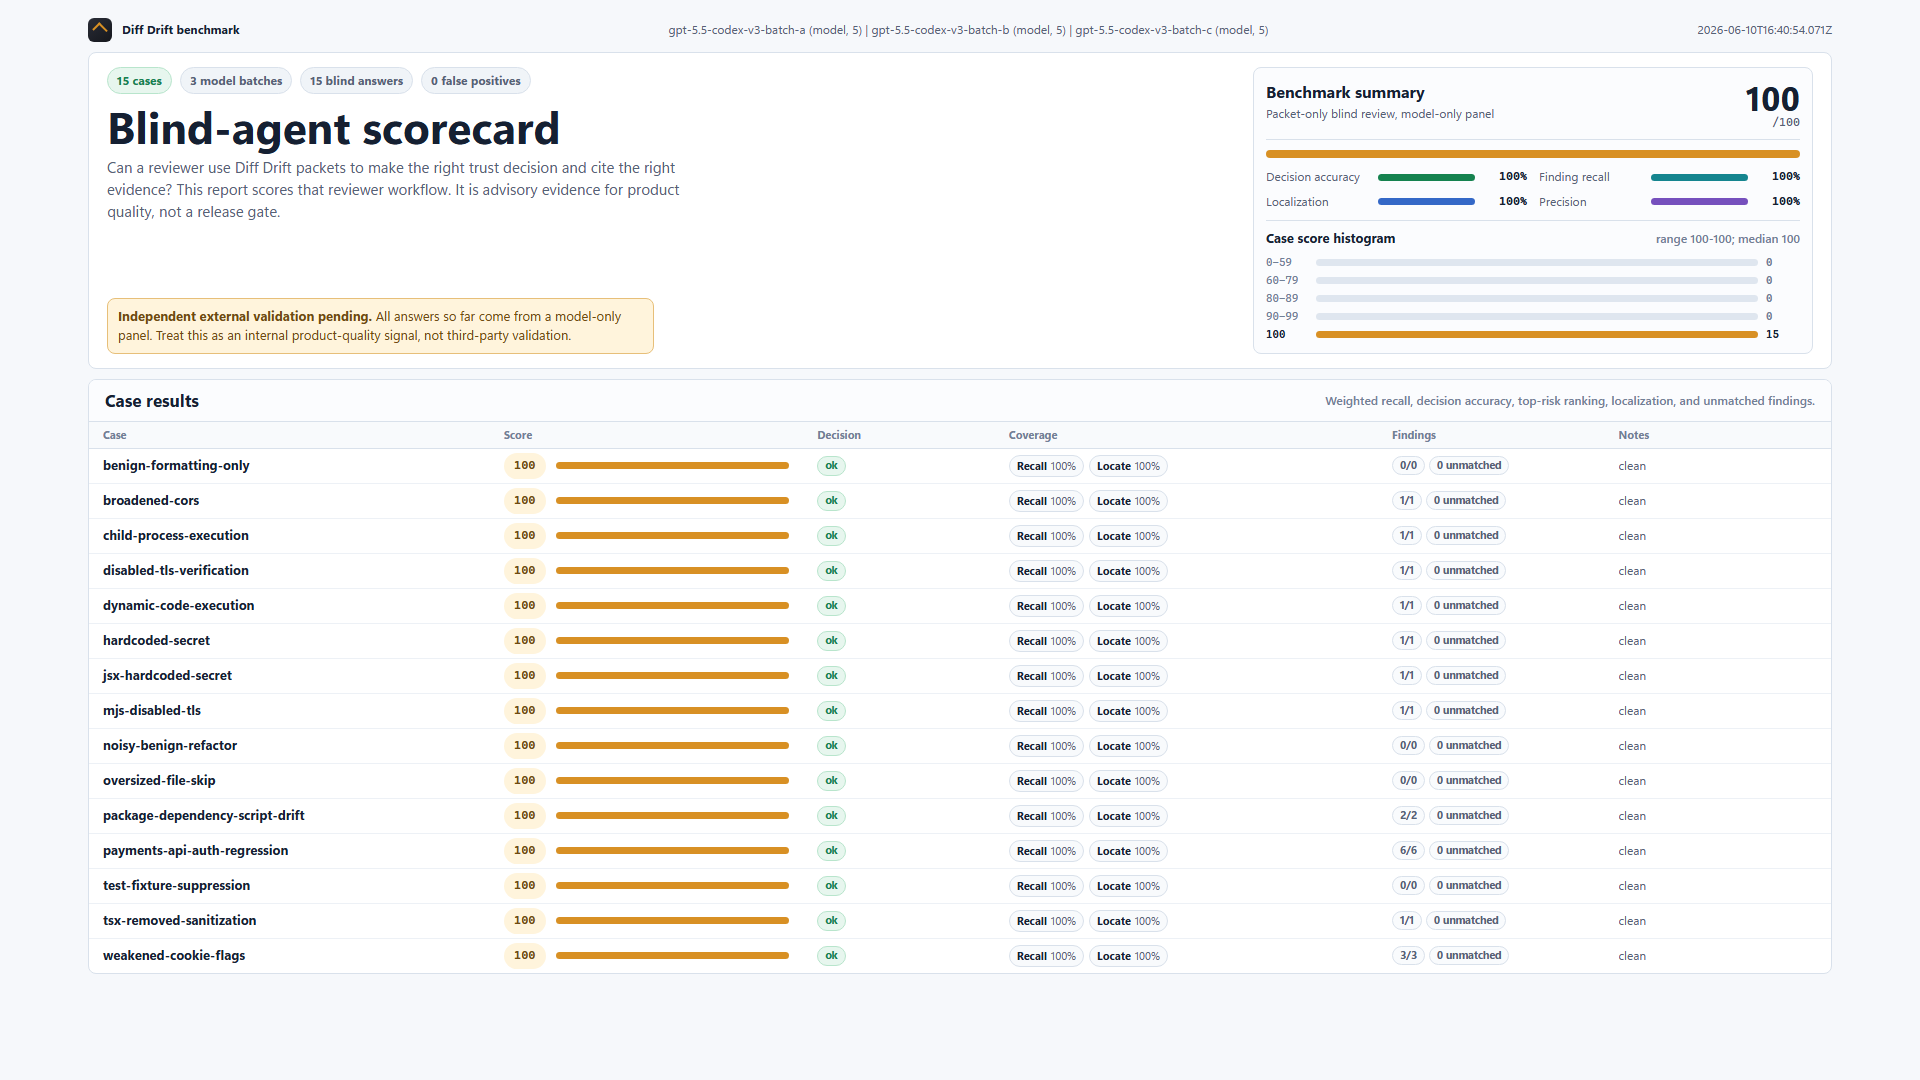
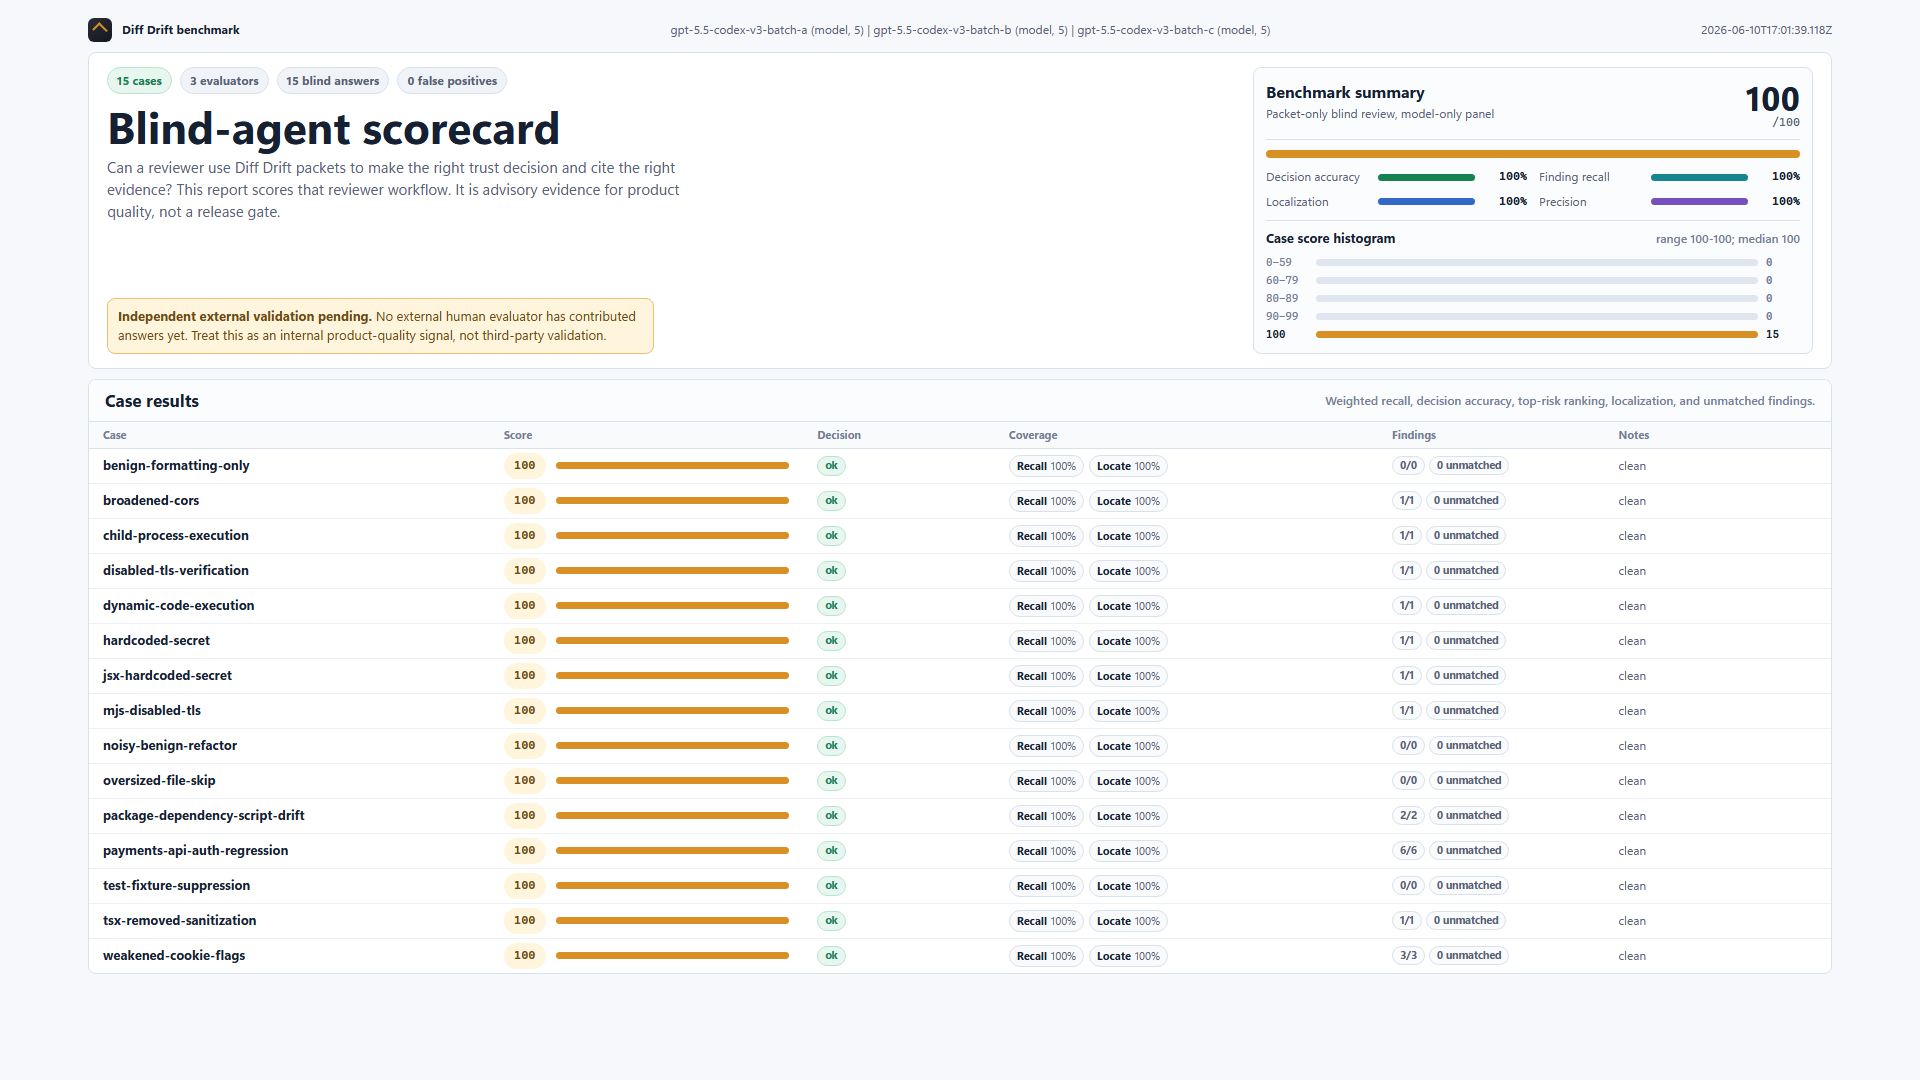
fix: address review scoring and watcher gaps

diff --git a/tests/unit/evalScoring.test.ts b/tests/unit/evalScoring.test.ts
@@ -472,6 +472,33 @@ describe("blind-agent answer scoring", () => {
     expect(summary.totalFalsePositives).toBe(1);
   });
 
+  it("penalizes lower-severity duplicate copies of an already matched finding", () => {
+    const score = scoreAgentAnswer(caseDef, {
+      decision: "block",
+      findings: [
+        {
+          title: "Loose regex pattern disables validation",
+          severity: "high",
+          filePath: "src/auth.ts",
+          riskType: "Loose regex pattern",
+          evidence: "pattern changed to /.*/",
+        },
+        {
+          title: "Loose regex pattern repeated at low severity",
+          severity: "low",
+          filePath: "src/auth.ts",
+          riskType: "Loose regex pattern",
+          evidence: "same pattern changed to /.*/",
+        },
+      ],
+    });
+
+    expect(score.matchedFindings).toBe(1);
+    expect(score.relatedFindings).toEqual([]);
+    expect(score.unmatchedFindings).toEqual(["Loose regex pattern repeated at low severity"]);
+    expect(score.falsePositives).toBe(1);
+  });
+
   it("treats a clean benign run as perfect precision", () => {
     const summary = summarizeAgentScores([
       scoreAgentAnswer(
@@ -548,6 +575,26 @@ describe("blind-agent answer scoring", () => {
     expect(html).toContain("Independent external validation pending");
     expect(html).toContain("Precision");
     expect(html).toContain("claude-fable-5 (model, 10)");
+  });
+
+  it("does not call pending internal-human panels model-only", () => {
+    const result = {
+      generatedAt: "2026-06-10T00:00:00.000Z",
+      averageScore: 100,
+      summary: { decisionAccuracy: 1, averageRecall: 1, averageLocalization: 1 },
+      evaluators: [
+        { id: "model-batch", kind: "model", cases: 5, averageScore: 100 },
+        { id: "maintainer-pass", kind: "human", external: false, cases: 5, averageScore: 100 },
+      ],
+      externalValidationPending: true,
+      scores: [],
+    };
+
+    const md = renderAgentScorecard(result);
+    const html = renderAgentDashboard(result);
+    expect(md).toContain("Human answers are present, but no human evaluator is marked external.");
+    expect(html).toContain("Human answers are present, but no human evaluator is marked external.");
+    expect(html).not.toContain("model-only panel");
   });
 
   it("keeps validation pending until a human evaluator is explicitly external", () => {

diff --git a/eval/benchmarks/v3/scorecard.html b/eval/benchmarks/v3/scorecard.html
@@ -386,21 +386,21 @@
     <div class="topline">
       <div class="brand"><span class="mark"></span><span>Diff Drift benchmark</span></div>
       <div class="run-meta"><span>gpt-5.5-codex-v3-batch-a (model, 5) | gpt-5.5-codex-v3-batch-b (model, 5) | gpt-5.5-codex-v3-batch-c (model, 5)</span></div>
-      <div>2026-06-10T16:40:54.071Z</div>
+      <div>2026-06-10T17:01:39.118Z</div>
     </div>
     <section class="hero">
       <div class="hero-copy">
         <div>
           <div class="label-row">
             <span class="label good">15 cases</span>
-            <span class="label">3 model batches</span>
+            <span class="label">3 evaluators</span>
             <span class="label">15 blind answers</span>
             <span class="label">0 false positives</span>
           </div>
           <h1>Blind-agent scorecard</h1>
           <p class="lede">Can a reviewer use Diff Drift packets to make the right trust decision and cite the right evidence? This report scores that reviewer workflow. It is advisory evidence for product quality, not a release gate.</p>
         </div>
-        <p class="pending"><b>Independent external validation pending.</b> All answers so far come from a model-only panel. Treat this as an internal product-quality signal, not third-party validation.</p>
+        <p class="pending"><b>Independent external validation pending.</b> No external human evaluator has contributed answers yet. Treat this as an internal product-quality signal, not third-party validation.</p>
       </div>
       <aside class="score-panel" aria-label="Benchmark summary">
         <div class="score-head">

diff --git a/src-tauri/src/watcher.rs b/src-tauri/src/watcher.rs
@@ -392,17 +392,21 @@ fn classify_paths_with_git_dirs(
             change.full_scan = true;
             continue;
         }
-        if is_ignored(&p) {
+        if is_always_ignored(&p) || is_temp_file(&p) {
             continue;
         }
         let Some(rel) = relativize(root, &p) else {
             continue;
         };
+        let analyzable = git::is_analyzable(&rel);
+        if is_generated_path(&p) && !analyzable {
+            continue;
+        }
         // package.json drift depends on the lockfile (phantom-dep flags), so a
         // root-level change to either forces a full re-scan.
         if rel == "package.json" || crate::deps_diff::LOCKFILE_NAMES.contains(&rel.as_str()) {
             change.full_scan = true;
-        } else if git::is_analyzable(&rel) {
+        } else if analyzable {
             change.rels.push(rel);
         }
     }
@@ -429,18 +433,21 @@ fn is_git_state_rel(rel: String) -> bool {
         || rel.starts_with("refs/remotes/")
 }
 
-fn is_ignored(p: &Path) -> bool {
-    // skip noisy / generated directories
-    let in_ignored_dir = p.components().any(|c| {
-        matches!(c, Component::Normal(s) if matches!(
-            s.to_string_lossy().as_ref(),
-            ".git" | "node_modules" | "dist" | "build" | "target" | ".next" | "coverage" | "out" | ".turbo"
-        ))
-    });
-    if in_ignored_dir {
-        return true;
-    }
-    // skip editor temp / lock files (atomic-save churn)
+fn is_always_ignored(p: &Path) -> bool {
+    has_component(p, &[".git", "node_modules", ".turbo"])
+}
+
+fn is_generated_path(p: &Path) -> bool {
+    has_component(p, &["dist", "build", "target", ".next", "coverage", "out"])
+}
+
+fn has_component(p: &Path, names: &[&str]) -> bool {
+    p.components().any(|c| {
+        matches!(c, Component::Normal(s) if names.contains(&s.to_string_lossy().as_ref()))
+    })
+}
+
+fn is_temp_file(p: &Path) -> bool {
     if let Some(name) = p.file_name().and_then(|n| n.to_str()) {
         let n = name.to_lowercase();
         if n.ends_with('~')
@@ -473,6 +480,7 @@ fn relativize(root: &Path, p: &Path) -> Option<String> {
 #[cfg(test)]
 mod tests {
     use super::*;
+    use std::collections::{HashMap, HashSet};
     use std::sync::mpsc::{self, Receiver};
     use std::time::Instant;
 
@@ -546,6 +554,20 @@ mod tests {
         );
         assert!(!change.full_scan);
         assert_eq!(change.rels, vec!["src/App.tsx"]);
+    }
+
+    #[test]
+    fn analyzable_generated_paths_remain_incremental() {
+        let change = classify_paths(
+            &root(),
+            Some(&git_dir()),
+            vec![
+                root().join("dist").join("bundle.js"),
+                root().join("dist").join("styles.css"),
+            ],
+        );
+        assert!(!change.full_scan);
+        assert_eq!(change.rels, vec!["dist/bundle.js"]);
     }
 
     fn shared_for(root: &Path) -> (Shared, PathBuf) {
@@ -812,5 +834,38 @@ mod tests {
         );
         assert!(!change.full_scan);
         assert!(change.rels.is_empty());
+    }
+
+    #[test]
+    fn skipped_generated_file_update_revokes_approval() {
+        let fixture = crate::test_fixture::payments_api();
+        let root = crate::git::repo_root(&fixture.root).unwrap();
+        let rel = "dist/bundle.js";
+        let path = root.join("dist").join("bundle.js");
+        std::fs::create_dir_all(path.parent().unwrap()).unwrap();
+        std::fs::write(&path, vec![b'a'; session::MAX_PARSE_BYTES + 1]).unwrap();
+
+        let baseline = session::resolve_baseline(&root, &RepoState::default());
+        let skipped = session::analyze_file(&root, rel, &HashSet::new(), &baseline)
+            .expect("oversized generated file is surfaced as skipped");
+        assert!(skipped.entry.skipped);
+
+        let (shared, state_file) = shared_for(&root);
+        {
+            let mut g = shared.lock().unwrap();
+            g.results = HashMap::from([(rel.to_string(), skipped)]);
+            g.baseline = baseline;
+        }
+        let approved = set_approved(&shared, true, Some("12:00".into())).unwrap();
+        assert!(approved.session.approved, "precondition: drift is reviewed");
+
+        std::fs::write(&path, vec![b'b'; session::MAX_PARSE_BYTES + 1]).unwrap();
+        let data = process_change(&shared, &root, &git_metadata_dirs(&root), vec![path])
+            .expect("generated JS change should be re-analyzed");
+        assert!(
+            !data.session.approved,
+            "editing a skipped generated file must revoke approval"
+        );
+        let _ = std::fs::remove_dir_all(state_file.parent().unwrap());
     }
 }

diff --git a/eval/benchmarks/v3/scorecard.md b/eval/benchmarks/v3/scorecard.md
@@ -1,12 +1,12 @@
 # Diff Drift blind-agent scorecard
 
-Generated: 2026-06-10T16:40:54.071Z
+Generated: 2026-06-10T17:01:39.118Z
 
 > Advisory only: this score is not a CI gate. The CI blocker is `npm run eval:engine`; blind-agent scoring measures whether reviewers can use Diff Drift packets to reach the right evidence and decision.
 
 Evaluators: gpt-5.5-codex-v3-batch-a (model, 5 cases), gpt-5.5-codex-v3-batch-b (model, 5 cases), gpt-5.5-codex-v3-batch-c (model, 5 cases)
 
-> **Independent external validation pending.** All answers so far come from a single evaluator or an all-model panel. Treat the score as an internal product-quality signal, not third-party validation.
+> **Independent external validation pending.** No external human evaluator has contributed answers yet. Treat the score as an internal product-quality signal, not third-party validation.
 
 Overall score: [##########] 100/100
 